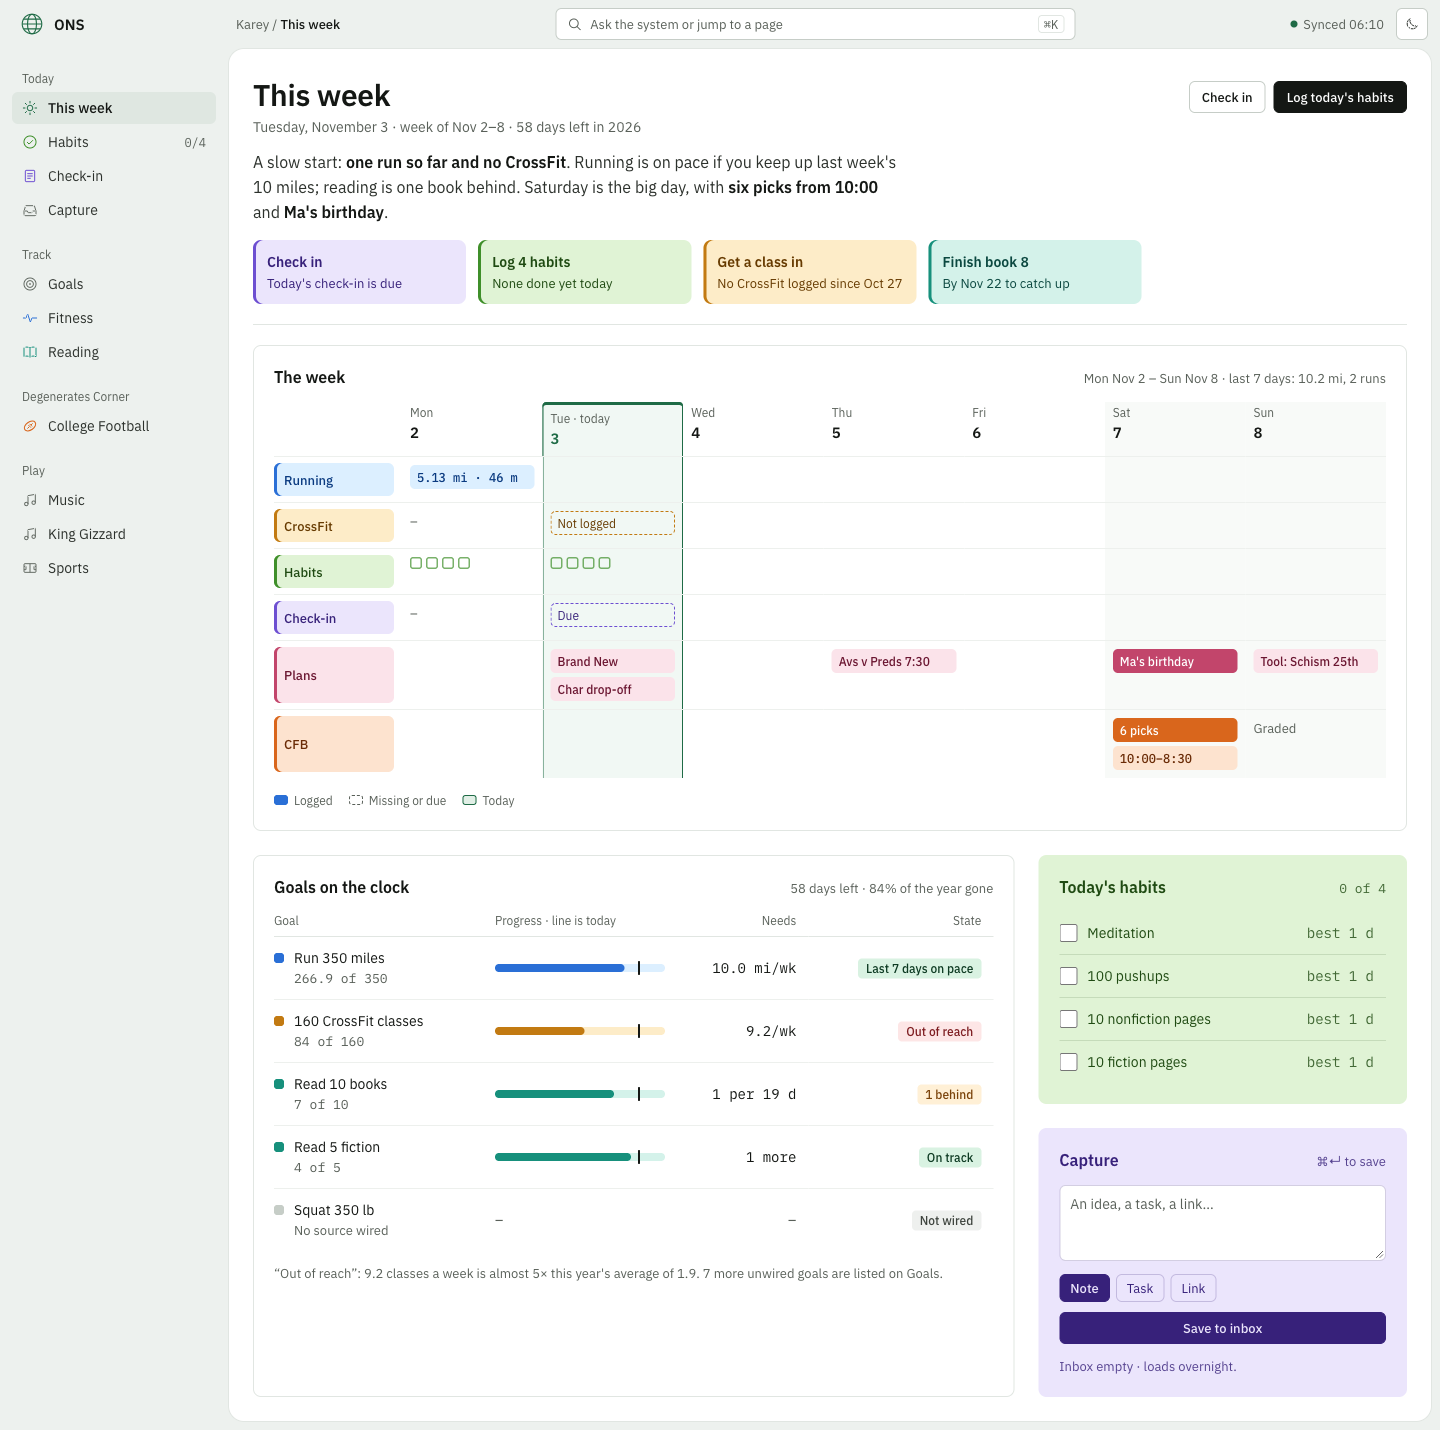
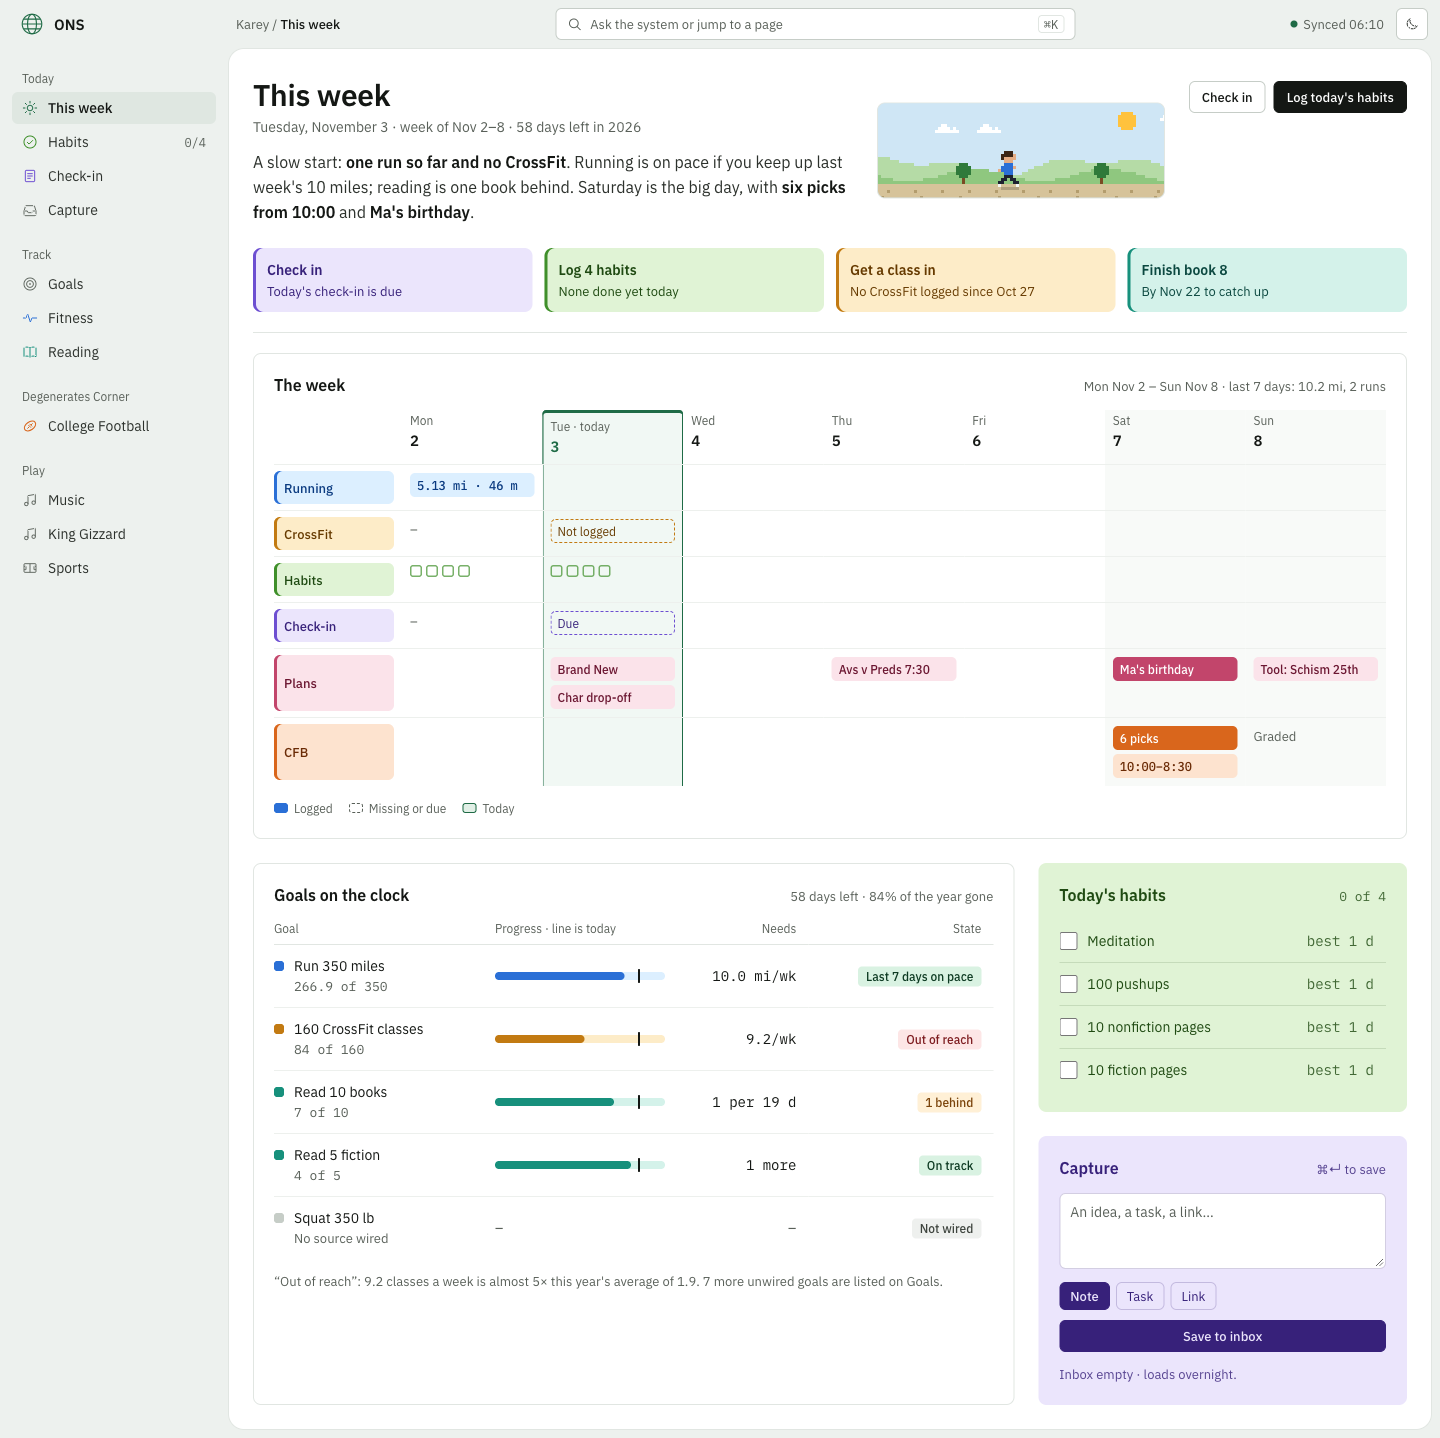
Logbook Color: pixel-art title scenes (CFB ball carrier, weekly jogger)
Canvas loops beside the page title, themed from CSS variables (day/night).
12 fps, offscreen/hidden-tab stop, click to pause (remembered), still frame
under prefers-reduced-motion. Phone shows a 64px banner above the title.

diff --git a/docs/design/directions/6-logbook-color/px.js b/docs/design/directions/6-logbook-color/px.js
@@ -1,0 +1,145 @@
+// Pixel-art title loops. One small canvas per page (<button class="scene" data-scene="…">), drawn at
+// 32 logical rows and scaled up with nearest-neighbour. Colours come from the theme's CSS variables,
+// so every scene redraws itself for light and dark.
+// Motion rules (ONS daily screens): 12 fps, stops offscreen and in hidden tabs, click pauses
+// (remembered), prefers-reduced-motion shows a still frame. Nothing else on the page animates.
+(function () {
+  const H = 32, FPS = 12, KEY = 'ons-px-paused';
+  const reduce = matchMedia('(prefers-reduced-motion: reduce)');
+  const rnd = i => (((i * 2654435761) >>> 0) % 1000) / 1000;
+
+  // ---- Sprites: 8×12, facing right. H head/helmet · S skin · J jersey/shirt · W stripe · B ball or hand · P pants · K shoes
+  const RUN = [
+    ['..HHH...', '.HHHHH..', '.HHSSS..', '..SSS...', '..JJJ...', '.JJJBB..', '.JJWBBB.', '..JJJ...', '..PPP...', '.PP.PP..', 'PP...PP.', 'K.....K.'],
+    ['..HHH...', '.HHHHH..', '.HHSSS..', '..SSS...', '..JJJ...', '.JJJBB..', '.JJWBBB.', '..JJJ...', '..PPP...', '..PPP...', '..P.PP..', '..K..K..'],
+  ];
+  const JOG = [
+    ['..HHH...', '.HHHHS..', '.HSSSS..', '..SSS...', '..JJJ...', '.JJJJS..', 'SJJJJ...', '..JJJ...', '..PPP...', '.PP.PP..', 'PP...PP.', 'K.....K.'],
+    ['..HHH...', '.HHHHS..', '.HSSSS..', '..SSS...', '..JJJ...', '.SJJJ...', '..JJJS..', '..JJJ...', '..PPP...', '..PPP...', '..P.PP..', '..K..K..'],
+  ];
+  const TREE = ['.TTT.', 'TTTTT', 'TTTTT', 'TTTTT', '.TTT.', '..R..', '..R..'];
+  const CLOUD = ['..CC....', '.CCCC.C.', 'CCCCCCCC'];
+
+  function spr(ctx, rows, x, y, map) {
+    for (let r = 0; r < rows.length; r++) for (let c = 0; c < rows[r].length; c++) {
+      const col = map[rows[r][c]]; if (!col) continue;
+      ctx.fillStyle = col; ctx.fillRect(x + c, y + r, 1, 1);
+    }
+  }
+  function px(ctx, col, x, y, w = 1, h = 1) { ctx.fillStyle = col; ctx.fillRect(x, y, w, h); }
+
+  function palette() {
+    const cs = getComputedStyle(document.documentElement), g = n => cs.getPropertyValue(n).trim();
+    const P = { dark: document.documentElement.dataset.theme === 'dark' };
+    ['sky', 'grass', 'grass2', 'line', 'stand', 'zone', 'post', 'ball', 'ground', 'ground2', 'hill', 'hill2', 'tree', 'trunk',
+      'sun', 'cloud', 'skin', 'ink', 'hair', 'away', 'star', 'shadow'].forEach(k => P[k] = g('--px-' + k));
+    ['run', 'edge', 'check', 'plan', 'habit', 'read'].forEach(k => P[k] = g('--' + k + '-mark'));
+    return P;
+  }
+
+  // ---- Degenerates Corner: a ball carrier breaking upfield with a defender on his heels
+  function cfb(ctx, W, t, P) {
+    const d = Math.floor(t * 24);
+    // stands and crowd (slow parallax), stadium lights at night
+    px(ctx, P.stand, 0, 0, W, 10);
+    const crowd = [P.edge, P.check, P.run, P.line, P.plan], beat = Math.floor(t * 4), off = Math.floor(d * 0.25);
+    for (let x = 1; x < W; x += 2) for (let y = 2; y < 9; y += 2) {
+      const i = (x + off) * 7 + y * 131, h = rnd(i); if (h < 0.3) continue;
+      px(ctx, crowd[Math.floor(h * 97) % crowd.length], x, y - (rnd(i + beat * 17) < 0.1 ? 1 : 0));
+    }
+    if (P.dark) for (let x = 6; x < W; x += 28) px(ctx, P.star, x, 0, 4, 1);
+    px(ctx, P.ink, 0, 9, W, 1);
+    // field: mown stripes, yard lines every 20, sideline
+    for (let x = 0; x < W; x++) {
+      const wx = x + d;
+      px(ctx, Math.floor(wx / 10) % 2 ? P.grass : P.grass2, x, 10, 1, H - 10);
+      if (wx % 20 === 0) px(ctx, P.line, x, 11, 1, H - 11);
+    }
+    px(ctx, P.line, 0, 10, W, 1);
+    // end zone + goalpost every 260 px of field
+    let scoring = false;
+    const rx = Math.floor(W * 0.56);
+    for (let k = Math.floor(d / 260) - 1; k <= Math.floor(d / 260) + 1; k++) {
+      const gx = k * 260 + 220 - d;
+      if (gx > W + 30 || gx < -40) continue;
+      px(ctx, P.zone, gx, 11, 20, H - 11);
+      px(ctx, P.line, gx, 11, 1, H - 11);
+      const pxl = gx + 20;
+      px(ctx, P.post, pxl, 13, 1, 16); px(ctx, P.post, pxl - 4, 12, 9, 1); px(ctx, P.post, pxl - 4, 3, 1, 9); px(ctx, P.post, pxl + 4, 3, 1, 9);
+      if (rx + 4 >= gx && rx + 4 <= gx + 20) scoring = true;
+    }
+    // players
+    const f = Math.floor(t * 10) % 2;
+    const dx = rx - 15 - Math.round(3 * Math.sin(t * 1.3));
+    px(ctx, P.shadow, dx + 1, 29, 6, 1); px(ctx, P.shadow, rx + 1, 29, 6, 1);
+    spr(ctx, RUN[1 - f], dx, 17 - (f ? 0 : 1), { H: P.check, S: P.skin, J: P.away, W: P.check, B: P.skin, P: P.away, K: P.ink });
+    spr(ctx, RUN[f], rx, 17 - f, { H: P.edge, S: P.skin, J: P.ink, W: P.edge, B: P.ball, P: P.line, K: P.ink });
+    if (scoring && Math.floor(t * 6) % 2) { px(ctx, P.post, rx + 2, 13); px(ctx, P.post, rx + 6, 12); px(ctx, P.post, rx - 1, 14); px(ctx, P.post, rx + 9, 14); }
+  }
+
+  // ---- This week: a jogger on the trail, hills and trees going by; sun by day, moon and stars at night
+  function week(ctx, W, t, P) {
+    const d = Math.floor(t * 14);
+    px(ctx, P.sky, 0, 0, W, H);
+    if (P.dark) {
+      for (let i = 0; i < W / 4; i++) { const x = Math.floor(rnd(i * 13) * W), y = Math.floor(rnd(i * 29) * 16); if (rnd(i + Math.floor(t * 2) * 31) > 0.15) px(ctx, P.star, x, y); }
+      const mx = W - 16; px(ctx, P.sun, mx + 1, 3, 4, 1); px(ctx, P.sun, mx, 4, 5, 3); px(ctx, P.sun, mx + 1, 7, 4, 1); px(ctx, P.sky, mx + 3, 4, 2, 2);
+    } else {
+      const sx = W - 16; px(ctx, P.sun, sx + 1, 3, 4, 6); px(ctx, P.sun, sx, 4, 6, 4);
+      if (Math.floor(t * 2) % 2) { px(ctx, P.sun, sx + 2, 1, 2, 1); px(ctx, P.sun, sx + 2, 10, 2, 1); px(ctx, P.sun, sx - 2, 5, 1, 2); px(ctx, P.sun, sx + 7, 5, 1, 2); }
+    }
+    for (let k = 0; k < 4; k++) {
+      const span = W + 40, cx = ((k * 61 - Math.floor(d * 0.2)) % span + span) % span - 20;
+      spr(ctx, CLOUD, cx, 3 + (k % 2) * 4, { C: P.cloud });
+    }
+    for (let x = 0; x < W; x++) {
+      const o1 = x + d * 0.3, h1 = 6 + Math.round(2.5 * Math.sin(o1 / 11) + 1.5 * Math.sin(o1 / 5));
+      px(ctx, P.hill2, x, 27 - h1, 1, h1);
+      const o2 = x + d * 0.55, h2 = 3 + Math.round(2 * Math.sin(o2 / 7));
+      px(ctx, P.hill, x, 27 - h2, 1, h2);
+    }
+    for (let k = Math.floor(d * 0.8 / 46) - 1; k <= Math.floor((d * 0.8 + W) / 46) + 1; k++) {
+      spr(ctx, TREE, k * 46 + 13 - Math.floor(d * 0.8), 20, { T: P.tree, R: P.trunk });
+    }
+    px(ctx, P.ground, 0, 27, W, H - 27);
+    for (let x = 0; x < W; x++) { if ((x + d) % 9 === 0) px(ctx, P.ground2, x, 29); if ((x + d) % 13 === 4) px(ctx, P.ground2, x, 31); }
+    const f = Math.floor(t * 8) % 2, jx = Math.floor(W * 0.42);
+    px(ctx, P.shadow, jx + 1, 28, 6, 1);
+    spr(ctx, JOG[f], jx, 16 - f, { H: P.hair, S: P.skin, J: P.run, P: P.ink, K: P.line });
+  }
+
+  const SCENES = { cfb, week };
+
+  function mount(el) {
+    const canvas = el.querySelector('canvas'), ctx = canvas.getContext('2d'), scene = SCENES[el.dataset.scene];
+    let W = 96, P = palette(), t = 2.4, prev = 0, raf = 0, last = -1, visible = true, paused = false;
+    try { paused = localStorage.getItem(KEY) === '1'; } catch (e) {}
+
+    const draw = force => { const fi = Math.floor(t * FPS); if (!force && fi === last) return; last = fi; scene(ctx, W, fi / FPS, P); };
+    const running = () => !paused && visible && !reduce.matches && !document.hidden;
+    const loop = now => { t += Math.min(0.1, (now - prev) / 1000); prev = now; draw(false); raf = running() ? requestAnimationFrame(loop) : 0; };
+    const sync = () => {
+      el.setAttribute('aria-pressed', paused || reduce.matches);
+      el.disabled = reduce.matches;
+      el.title = reduce.matches ? 'Animation off (reduced motion)' : paused ? 'Play animation' : 'Pause animation';
+      if (running() && !raf) { prev = performance.now(); raf = requestAnimationFrame(loop); }
+    };
+    const size = () => {
+      const s = Math.max(1, Math.round(el.clientHeight / H));
+      W = Math.ceil(el.clientWidth / s);
+      canvas.width = W; canvas.height = H;
+      canvas.style.width = W * s + 'px'; canvas.style.height = H * s + 'px';
+      draw(true);
+    };
+
+    el.addEventListener('click', () => { paused = !paused; try { localStorage.setItem(KEY, paused ? '1' : '0'); } catch (e) {} sync(); });
+    new ResizeObserver(size).observe(el);
+    new IntersectionObserver(([e]) => { visible = e.isIntersecting; sync(); }).observe(el);
+    new MutationObserver(() => { P = palette(); draw(true); }).observe(document.documentElement, { attributes: true, attributeFilter: ['data-theme'] });
+    document.addEventListener('visibilitychange', sync);
+    reduce.addEventListener('change', () => { draw(true); sync(); });
+    size(); sync();
+  }
+
+  addEventListener('DOMContentLoaded', () => document.querySelectorAll('.scene[data-scene]').forEach(mount));
+})();

diff --git a/docs/design/directions/6-logbook-color/style.css b/docs/design/directions/6-logbook-color/style.css
@@ -21,6 +21,13 @@
   --plan: #fbe3ea;  --plan-ink: #6b1631;  --plan-mark: #c2456b;
   --edge: #fde3cf;  --edge-ink: #6a2b06;  --edge-mark: #d9661c;
 
+
+  /* pixel scenes */
+  --px-sky: #cfe6f5; --px-grass: #4e9a4a; --px-grass2: #59a654; --px-line: #f5f8f3; --px-stand: #3b4252; --px-zone: #d9661c;
+  --px-post: #f4c430; --px-ball: #8a4a1c; --px-ground: #d6c39a; --px-ground2: #b39d6e; --px-hill: #8fc77f; --px-hill2: #b5dba6;
+  --px-tree: #2f7a3a; --px-trunk: #7a4a24; --px-sun: #ffc23d; --px-cloud: #ffffff; --px-skin: #e5ad85; --px-ink: #1d2230;
+  --px-hair: #3b2516; --px-away: #f1f2f5; --px-star: #ffffff; --px-shadow: rgb(0 0 0 / .18);
+
   --ok: #d9f2e2; --ok-ink: #0d3a22; --risk: #fff0d6; --risk-ink: #7a430a; --off: #fde6e6; --off-ink: #7d1c20; --none: #eef0ee; --none-ink: #3e443e;
 }
 [data-theme="dark"] {
@@ -39,6 +46,12 @@
   --check: #251c42; --check-ink: #d2c6ff; --check-mark: #9479f2;
   --plan: #371722;  --plan-ink: #ffc2d2;  --plan-mark: #e66b91;
   --edge: #3a1f0c;  --edge-ink: #ffcca4;  --edge-mark: #f08a45;
+
+
+  --px-sky: #101c2a; --px-grass: #2a5a2b; --px-grass2: #306431; --px-line: #cdd6cc; --px-stand: #171b23; --px-zone: #8a3f12;
+  --px-post: #e3b52c; --px-ball: #a0592a; --px-ground: #4a3f2c; --px-ground2: #5e5038; --px-hill: #1e3b25; --px-hill2: #182d22;
+  --px-tree: #14361c; --px-trunk: #4a2e18; --px-sun: #e9e4c4; --px-cloud: #22303f; --px-skin: #d29c76; --px-ink: #0b0d12;
+  --px-hair: #2a1a10; --px-away: #d9dbe2; --px-star: #fff6cf; --px-shadow: rgb(0 0 0 / .3);
 
   --ok: #143222; --ok-ink: #a9e9c4; --risk: #382810; --risk-ink: #f6cf8b; --off: #3d191c; --off-ink: #ffb8bb; --none: #232924; --none-ink: #c3cac4;
 }
@@ -100,6 +113,15 @@ h1 { font: 600 22px/28px var(--sans); margin: 0; }
 .intro .lede b { color: var(--ink); font-weight: 600; }
 .intro .acts { display: flex; gap: 8px; flex: none; padding-top: 4px; }
 
+.intro { flex-wrap: wrap; }
+.intro > div:first-child { flex: 1 1 0; min-width: 0; }
+/* Pixel scene: a small looping picture beside the title. The whole box is the pause button. */
+.scene { flex: none; align-self: center; width: 288px; height: 96px; padding: 0; border: 1px solid var(--border); border-radius: 8px; overflow: hidden; background: var(--px-sky); cursor: pointer; position: relative; display: block; }
+.scene canvas { display: block; image-rendering: pixelated; image-rendering: crisp-edges; }
+.scene:disabled { cursor: default; }
+.scene:not(:disabled):hover::after, .scene[aria-pressed="true"]:not(:disabled)::after { content: "Pause"; position: absolute; right: 6px; bottom: 6px; font: 500 11px/16px var(--sans); padding: 0 6px; border-radius: 4px; background: var(--sheet); color: var(--ink-2); }
+.scene[aria-pressed="true"]:not(:disabled)::after { content: "Paused · play"; }
+.intro > .next { flex-basis: 100%; align-self: stretch; margin-top: 0; }
 .intro.compact { border-bottom: 0; padding-bottom: 0; margin-bottom: 20px; }
 
 /* Summary tiles (CFB): season, calendar, this week's pipeline, the model */
@@ -270,6 +292,7 @@ td .sub { display: block; font-size: 13px; color: var(--muted); }
   .title { flex-direction: column; align-items: stretch; }
   .intro { flex-direction: column; gap: 14px; padding-top: 0; }
   .intro h1 { font-size: 26px; line-height: 32px; }
+  .scene { order: -1; align-self: stretch; width: auto; height: 64px; }
   .intro h1 .h1-sub { display: block; font-size: 20px; line-height: 26px; }
   .intro .lede { font-size: 15px; line-height: 23px; }
   .next { grid-template-columns: minmax(0, 1fr); gap: 8px; }
@@ -304,6 +327,7 @@ td .sub { display: block; font-size: 13px; color: var(--muted); }
 @media (min-width: 768px) and (max-width: 1100px) {
   .grid > [class*="s"] { grid-column: 1 / -1; }
   .intro { flex-direction: column; gap: 14px; }
+  .scene { align-self: flex-start; }
   .next { grid-template-columns: repeat(2, minmax(0, 1fr)); }
   .tiles { grid-template-columns: repeat(2, minmax(0, 1fr)); }
 }

diff --git a/docs/design/directions/6-logbook-color/home.html b/docs/design/directions/6-logbook-color/home.html
@@ -6,6 +6,7 @@
 <link rel="preconnect" href="https://fonts.googleapis.com"><link rel="preconnect" href="https://fonts.gstatic.com" crossorigin>
 <link href="https://fonts.googleapis.com/css2?family=IBM+Plex+Sans:wght@400;500;600&family=IBM+Plex+Mono:wght@400;500&display=swap" rel="stylesheet">
 <script src="theme.js"></script>
+<script src="px.js" defer></script>
 <link rel="stylesheet" href="style.css">
 </head>
 <body>
@@ -60,14 +61,15 @@
         <h1>This week</h1>
         <p class="span">Tuesday, November 3 · week of Nov 2–8 · 58 days left in 2026</p>
         <p class="lede">A slow start: <b>one run so far and no CrossFit</b>. Running is on pace if you keep up last week's 10 miles; reading is one book behind. Saturday is the big day, with <b>six picks from 10:00</b> and <b>Ma's birthday</b>.</p>
-        <ol class="next" aria-label="Next steps today">
+      </div>
+      <button type="button" class="scene" data-scene="week" aria-label="Pause animation: a jogger on the trail" aria-pressed="false"><canvas aria-hidden="true"></canvas></button>
+      <div class="acts"><a class="btn" href="#">Check in</a><a class="btn pri" href="#">Log today's habits</a></div>
+      <ol class="next" aria-label="Next steps today">
           <li class="l-check"><b>Check in</b><span>Today's check-in is due</span></li>
           <li class="l-habit"><b>Log 4 habits</b><span>None done yet today</span></li>
           <li class="l-lift"><b>Get a class in</b><span>No CrossFit logged since Oct 27</span></li>
           <li class="l-read"><b>Finish book 8</b><span>By Nov 22 to catch up</span></li>
         </ol>
-      </div>
-      <div class="acts"><a class="btn" href="#">Check in</a><a class="btn pri" href="#">Log today's habits</a></div>
     </header>
 
     <div class="grid">

diff --git a/docs/design/directions/6-logbook-color/cfb.html b/docs/design/directions/6-logbook-color/cfb.html
@@ -6,6 +6,7 @@
 <link rel="preconnect" href="https://fonts.googleapis.com"><link rel="preconnect" href="https://fonts.gstatic.com" crossorigin>
 <link href="https://fonts.googleapis.com/css2?family=IBM+Plex+Sans:wght@400;500;600&family=IBM+Plex+Mono:wght@400;500&display=swap" rel="stylesheet">
 <script src="theme.js"></script>
+<script src="px.js" defer></script>
 <link rel="stylesheet" href="style.css">
 </head>
 <body>
@@ -61,6 +62,7 @@
         <p class="span">Week 10 · Saturday, November 7 · DraftKings lines, updated 09:01 MT</p>
         <p class="lede">Six picks for Saturday, <b>three underdogs and three favorites</b>, all from one deterministic model. The season is up <b>4.45 units</b> through Week 9.</p>
       </div>
+      <button type="button" class="scene" data-scene="cfb" aria-label="Pause animation: a ball carrier breaking upfield" aria-pressed="false"><canvas aria-hidden="true"></canvas></button>
       <div class="acts"><a class="btn" href="#">Week 9 results</a><a class="btn pri" href="#">Copy slate</a></div>
     </header>
 

diff --git a/docs/design/directions/6-logbook-color/README.md b/docs/design/directions/6-logbook-color/README.md
@@ -66,3 +66,35 @@ Files: `home.html`, `cfb.html`, `style.css`, `theme.js`; screenshots `{home,cfb}
 - The pipeline step times ("Tue 09:01", "Thursday briefing Nov 5") follow the cadence in the README; the API doesn't expose step status yet. A real version needs a small `/api/cfb/run-status` built from the daily-sync step logs.
 
 **Inspector note:** at 390px the inspector flags the second tile touching the right edge. That peek is deliberate, to show the row swipes. Everything else passes in both themes.
+
+## Pixel scenes beside the title
+
+Each page gets a small pixel-art loop next to its title, in `px.js`.
+
+- **How it's drawn:** a canvas 32 logical pixels tall, scaled up with nearest-neighbour: ×3 (288×96) on desktop, and a 64px banner above the title on phones.
+- **Colours** come from `--px-*` theme variables plus the area marks, so each scene has a day version and a night version.
+
+**Built:**
+- **Degenerates Corner:** a ball carrier in tangerine (underdog colour) breaks upfield with a violet defender chasing. The stands have a crowd that bounces, stadium lights come on at night, and an end zone and goalpost scroll past, with a sparkle when he crosses the goal line.
+- **This week:** a jogger in the running blue on a trail, with parallax hills, trees and clouds. There's a sun by day and a moon with twinkling stars at night.
+
+**Motion rules.** These break CLAUDE.md's "quiet on daily screens" default because the owner asked for them. To keep them quiet anyway:
+- They run at 12fps and draw nothing between frames.
+- They stop when scrolled offscreen or when the tab is hidden.
+- Clicking a scene pauses every scene. The choice is saved as `ons-px-paused`.
+- With `prefers-reduced-motion` on, each scene shows a still frame and the button is disabled.
+- Nothing else on the page animates.
+
+**Ideas for the other pages** (not built):
+
+| Page | Loop |
+|---|---|
+| Habits | A little gardener waters a row of four sprouts, one per habit; a sprout blooms when it's ticked |
+| Check-in | A figure at a desk writes in a journal by lamplight |
+| Capture | A figure with a butterfly net catches falling notes |
+| Goals | A climber works up a switchback toward a flag |
+| Fitness | A lifter does a barbell squat, with chalk dust on the rep |
+| Reading | A reader in an armchair turns pages, with a cat on the armrest |
+| Music | A record spins while a listener in headphones nods along |
+| King Gizzard | An original pixel lizard in a wizard hat plays a tiny flute |
+| Sports | A hockey player skates past and taps a puck into the net |
